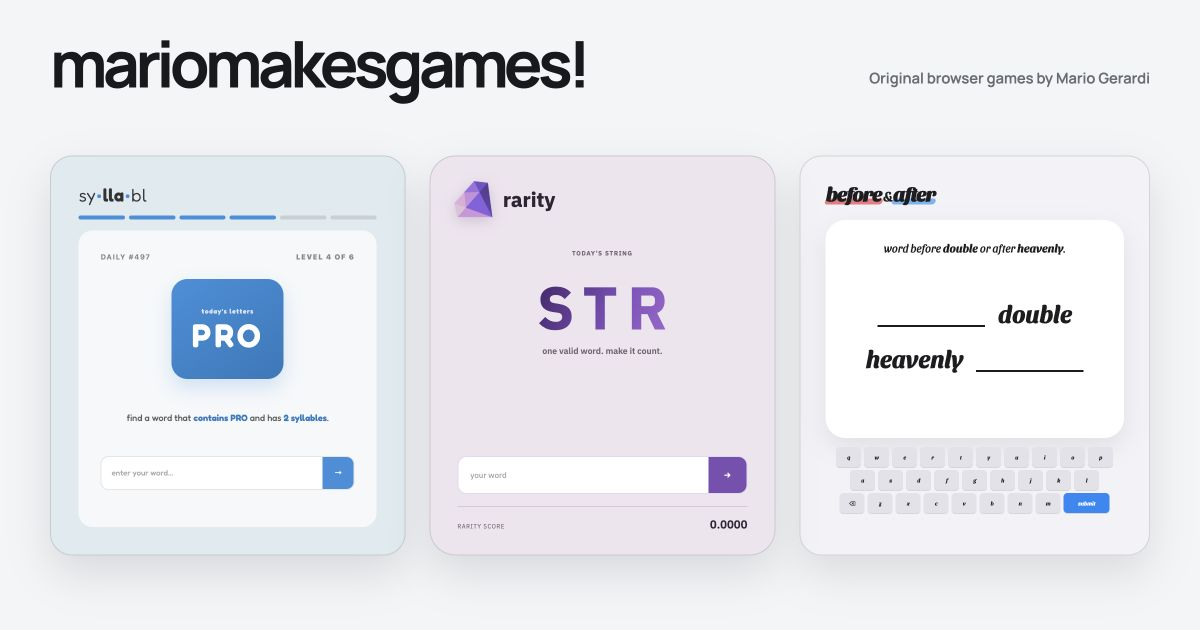
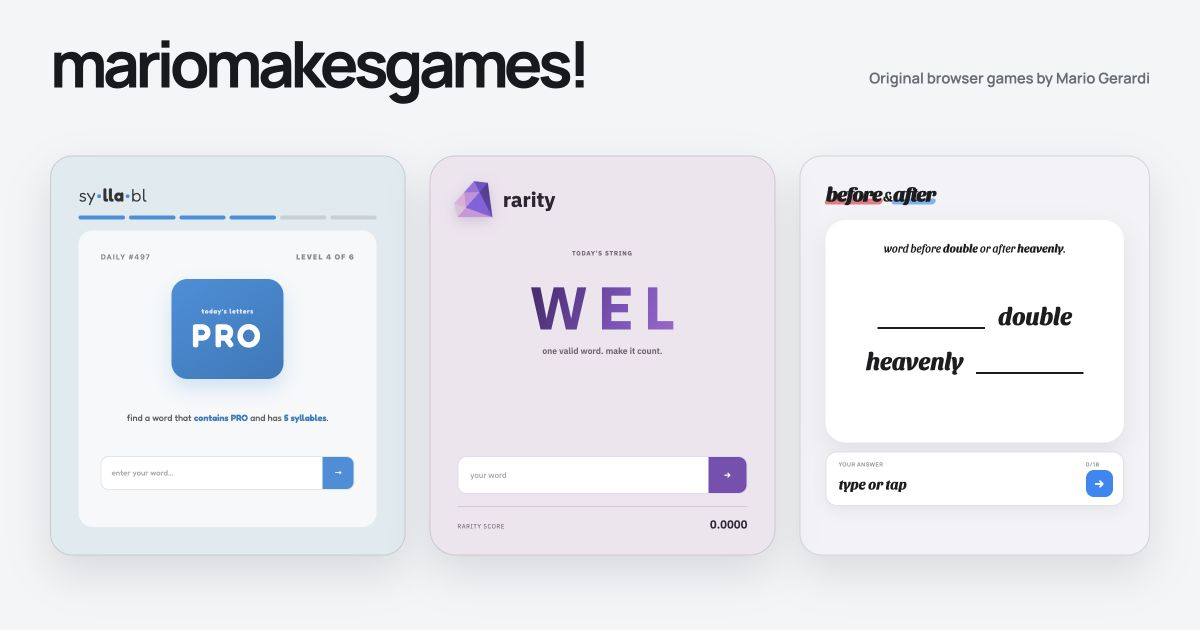
Refine homepage game demos

Changed region(s): [[0.6783, 0.6937, 0.925, 0.8143], [0.7092, 0.4825, 0.8942, 0.6032], [0.4317, 0.4524, 0.555, 0.5429]]

diff --git a/app/globals.css b/app/globals.css
@@ -17954,6 +17954,16 @@ body:has(.syllabl-game-card .syllabl-play) {
   border-bottom: 2px solid var(--ba-underline);
 }
 
+.before-after-game-card .ba-phrase.is-answer-first > b {
+  place-items: center end;
+  text-align: right;
+}
+
+.before-after-game-card .ba-phrase.is-answer-last > b {
+  place-items: center start;
+  text-align: left;
+}
+
 .before-after-game-card .ba-phrase > b::before { display: none; }
 
 .before-after-game-card .ba-phrase > b span {
@@ -18424,6 +18434,16 @@ body:has(.syllabl-game-card .syllabl-play) {
   color: #1d1d1f;
 }
 
+.site-frame:not([data-game]) .preview-before-after-phrases .is-answer-first b {
+  place-items: center end;
+  text-align: right;
+}
+
+.site-frame:not([data-game]) .preview-before-after-phrases .is-answer-last b {
+  place-items: center start;
+  text-align: left;
+}
+
 .site-frame:not([data-game]) .preview-before-after-phrases b::before { display: none; }
 
 .site-frame:not([data-game]) .preview-before-after-phrases b::after {
@@ -18464,44 +18484,72 @@ body:has(.syllabl-game-card .syllabl-play) {
 .site-frame:not([data-game]) .preview-card-before-after.is-submitted .preview-before-after-phrases em::before,
 .site-frame:not([data-game]) .preview-card-before-after.is-feedback .preview-before-after-phrases em::before { opacity: .92; }
 
-.preview-before-after-keyboard {
+.preview-before-after-input {
   display: grid;
-  gap: 3px;
+  grid-template-columns: 1fr auto;
+  gap: 2px 10px;
+  min-height: 53px;
+  align-items: center;
   margin-top: 9px;
+  padding: 8px 10px 8px 12px;
+  border: 1px solid rgb(29 29 31 / .13);
+  border-radius: 11px;
+  background: #fff;
+  box-shadow: 0 5px 14px rgb(0 0 0 / .055);
 }
 
-.preview-before-after-keyboard > span {
-  display: flex;
-  gap: 3px;
-  justify-content: center;
+.preview-before-after-input > span,
+.preview-before-after-input > small {
+  color: rgb(29 29 31 / .48);
+  font: 700 clamp(.31rem, .47vw, .4rem) "Manrope", var(--sans);
+  letter-spacing: .07em;
+  text-transform: uppercase;
 }
 
-.preview-before-after-keyboard i {
-  display: grid;
-  flex: 1 1 0;
-  max-width: 25px;
-  height: clamp(14px, 1.8vw, 20px);
-  place-items: center;
-  border-radius: 4px;
+.preview-before-after-input > strong {
+  overflow: hidden;
   color: #1d1d1f;
-  background: #e2e2e8;
-  box-shadow: 0 1px 0 rgb(29 29 31 / .13);
-  font: 650 clamp(.28rem, .46vw, .39rem) "Sansita Swashed", Georgia, serif;
-  font-style: normal;
+  font: 700 clamp(.76rem, 1.2vw, 1rem) "Sansita Swashed", Georgia, serif;
+  text-overflow: ellipsis;
+  white-space: nowrap;
 }
 
-.preview-before-after-keyboard i.is-submit {
-  flex-grow: 2.2;
-  max-width: 46px;
+.preview-before-after-input > small {
+  grid-column: 2;
+  grid-row: 1;
+}
+
+.preview-before-after-input > b {
+  display: grid;
+  grid-column: 2;
+  grid-row: 2;
+  width: 27px;
+  height: 27px;
+  place-items: center;
+  border-radius: 8px;
   color: #fff;
   background: #1688f7;
+  font: 800 .7rem "Manrope", var(--sans);
+}
+
+.preview-card-before-after.is-feedback .preview-before-after-input {
+  border-color: rgb(49 155 93 / .42);
+  box-shadow: 0 0 0 2px rgb(49 155 93 / .08);
+}
+
+.preview-card-before-after.is-feedback .preview-before-after-input > b {
+  background: #319b5d;
 }
 
 .site-frame:not([data-game]) .preview-card-before-after > .preview-live-feedback {
-  margin-top: 5px;
+  min-height: 16px;
+  margin-top: 7px;
   color: #319b5d;
   font-family: "Sansita Swashed", Georgia, serif;
+  font-size: clamp(.72rem, 1.05vw, .9rem);
+  font-weight: 700;
   letter-spacing: 0;
+  line-height: 1.1;
   text-transform: lowercase;
 }
 

diff --git a/src/app-shell/hero-game-previews.tsx b/src/app-shell/hero-game-previews.tsx
@@ -67,7 +67,7 @@ function phaseClass(phase: PreviewPhase) {
 }
 
 function SyllablPreview() {
-  const { cardRef, phase, typedAnswer } = useCenteredDemo("program");
+  const { cardRef, phase, typedAnswer } = useCenteredDemo("procrastinator");
 
   return (
     <div
@@ -89,7 +89,7 @@ function SyllablPreview() {
         <div className="preview-syllabl-token">
           <small>today’s letters</small><strong>PRO</strong>
         </div>
-        <p>find a word that <b>contains PRO</b> and has <b>2 syllables</b>.</p>
+        <p>find a word that <b>contains PRO</b> and has <b>5 syllables</b>.</p>
         <div className="preview-entry-stack">
           <div className="preview-syllabl-entry">
             <span className="preview-entry-value" data-preview-entry>
@@ -98,7 +98,7 @@ function SyllablPreview() {
             <b>{phase === "feedback" ? "✓" : "→"}</b>
           </div>
           <small className="preview-live-feedback">
-            {phase === "submitted" ? "checking…" : phase === "feedback" ? "valid · 2 syllables" : "\u00a0"}
+            {phase === "submitted" ? "checking…" : phase === "feedback" ? "valid · 5 syllables" : "\u00a0"}
           </small>
         </div>
       </div>
@@ -107,7 +107,7 @@ function SyllablPreview() {
 }
 
 function RarityPreview() {
-  const { cardRef, phase, typedAnswer } = useCenteredDemo("street");
+  const { cardRef, phase, typedAnswer } = useCenteredDemo("bejeweled");
 
   return (
     <div
@@ -122,7 +122,7 @@ function RarityPreview() {
       </div>
       <div className="preview-rarity-panel">
         <small>today’s string</small>
-        <strong>STR</strong>
+        <strong>WEL</strong>
         <p>
           {phase === "submitted"
             ? "checking the field…"
@@ -163,14 +163,15 @@ function BeforeAfterPreview() {
           word before <b>double</b> or after <b>heavenly</b>.
         </p>
         <div className="preview-before-after-phrases">
-          <span><b><em className="preview-entry-value" data-preview-entry>{shownAnswer}</em></b><i>double</i></span>
-          <span><i>heavenly</i><b><em className="preview-entry-value">{shownAnswer}</em></b></span>
+          <span className="is-answer-first"><b><em className="preview-entry-value">{shownAnswer}</em></b><i>double</i></span>
+          <span className="is-answer-last"><i>heavenly</i><b><em className="preview-entry-value">{shownAnswer}</em></b></span>
         </div>
       </div>
-      <div className="preview-before-after-keyboard" aria-hidden="true">
-        <span>{"qwertyuiop".split("").map((letter) => <i key={letter}>{letter}</i>)}</span>
-        <span>{"asdfghjkl".split("").map((letter) => <i key={letter}>{letter}</i>)}</span>
-        <span><i>⌫</i>{"zxcvbnm".split("").map((letter) => <i key={letter}>{letter}</i>)}<i className="is-submit">submit</i></span>
+      <div className="preview-before-after-input">
+        <span>your answer</span>
+        <strong className="preview-entry-value" data-preview-entry>{typedAnswer || "type or tap"}</strong>
+        <small>{typedAnswer.length}/18</small>
+        <b aria-hidden="true">{phase === "feedback" ? "✓" : "→"}</b>
       </div>
       <small className="preview-live-feedback">
         {phase === "submitted" ? "checking both phrases…" : phase === "feedback" ? "bridge found" : "\u00a0"}

diff --git a/src/games/before-after/before-after-game.tsx b/src/games/before-after/before-after-game.tsx
@@ -160,7 +160,7 @@ function PhraseRows({
       {puzzle.clueWords.slice(0, 2).map((clue, index) => {
         const answerFirst = puzzle.position === "before" || (puzzle.position === "both" && index === 0);
         return (
-          <div className="ba-phrase" key={`${clue}-${index}`}>
+          <div className={`ba-phrase ${answerFirst ? "is-answer-first" : "is-answer-last"}`} key={`${clue}-${index}`}>
             {answerFirst && <AnswerBlank value={shown} />}
             <span>{clue.toLowerCase()}</span>
             {!answerFirst && <AnswerBlank value={shown} />}
